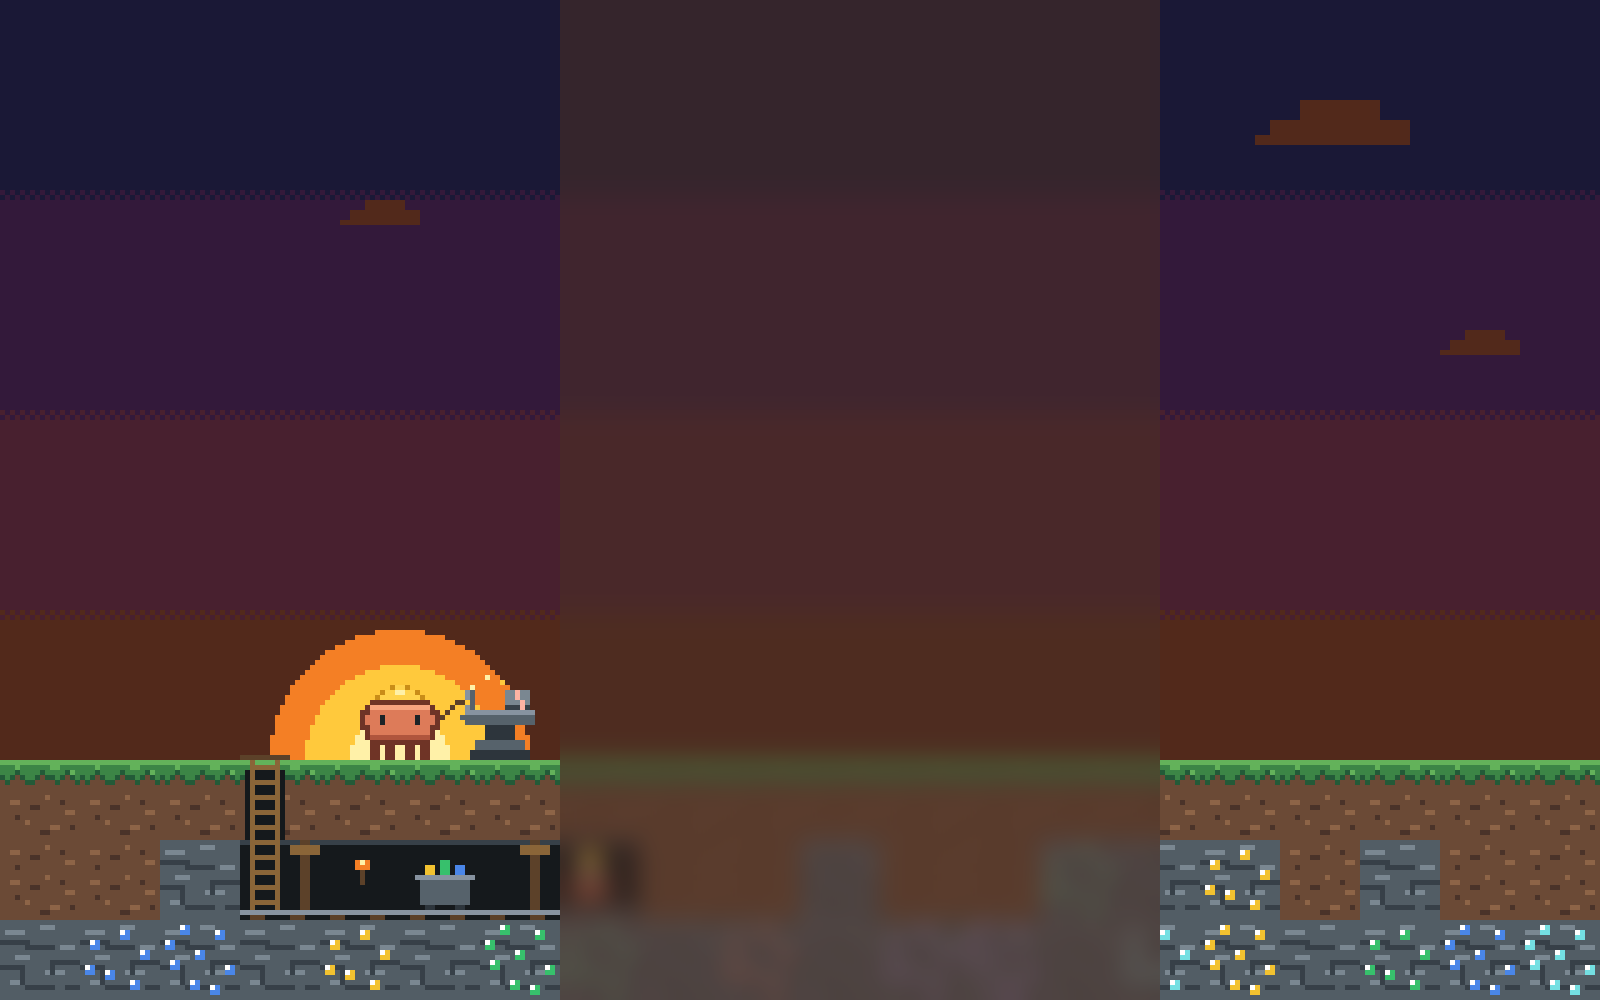
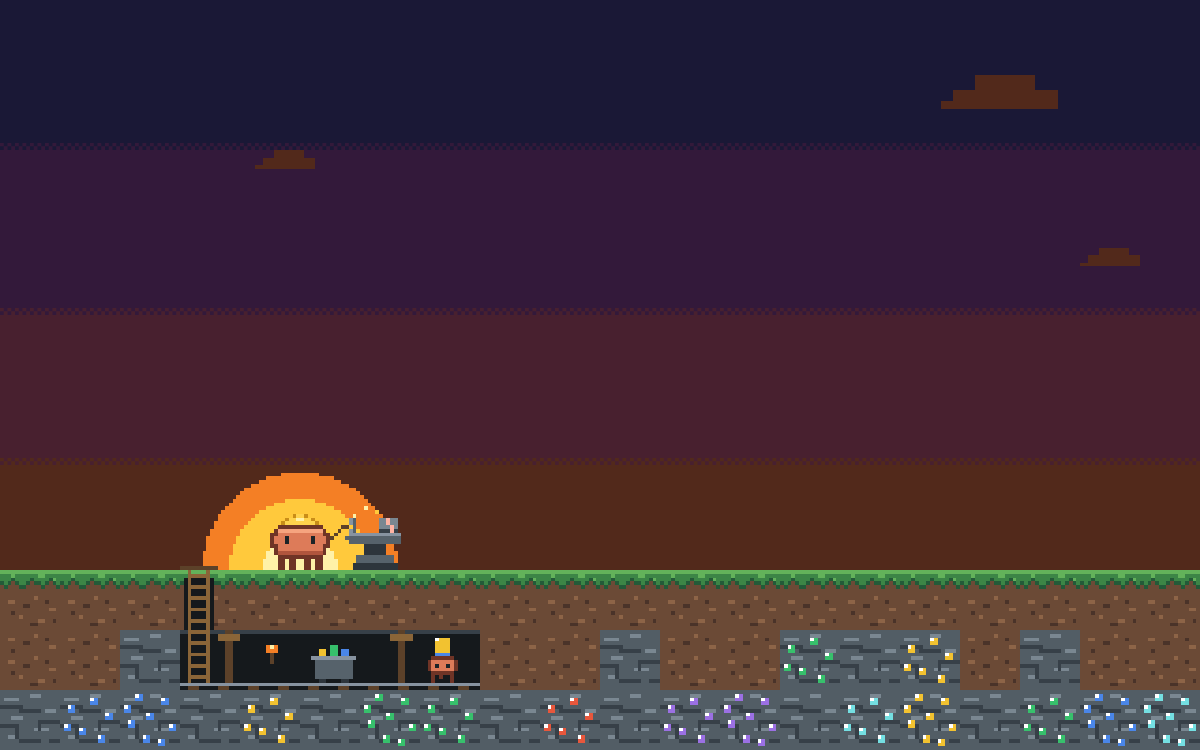
docs: plain, smaller main preview in the README

diff --git a/README.md b/README.md
@@ -2,7 +2,7 @@
 
 A block-world theme for the Claude Code desktop app. It paints the app in earthy dirt tones and puts a living scene behind the conversation: a little miner who acts out what the agent is doing, under a sky that follows the time of day.
 
-![Block Shift: the mascot hammering at the anvil at sunset, beside the conversation](assets/preview.png)
+<p align="center"><img src="assets/preview.png" width="600" alt="Block Shift: the mascot hammering at the anvil at sunset, above the mine"></p>
 
 ## Install
 
